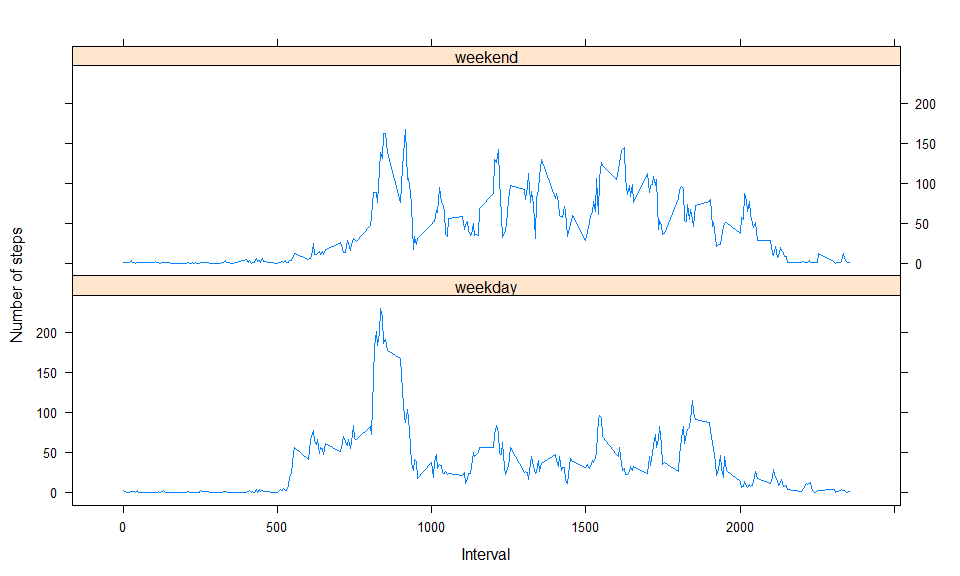
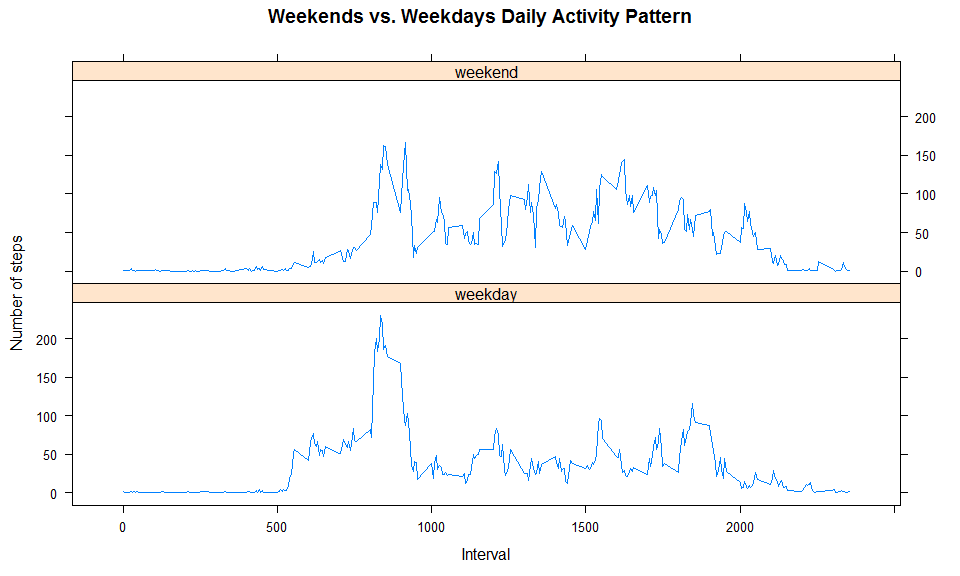
update
update charting

diff --git a/PA1_template.html b/PA1_template.html
@@ -137,23 +137,25 @@ hist(stepsperDay$x, breaks = 20, col = &quot;lightgreen&quot;, border = &quot;gr
 median(stepsperDay$x) -&gt; median_2
 
 stepsperInterval&lt;-aggregate(xAct1$steps, by=list(xAct1$interval), FUN=mean, na.rm=TRUE)</code></pre>
+<p>The daily mean after replacing missing value is `r mean_2’ The daily median after replacing missing value is ‘r median_2’</p>
 <pre class="r"><code>plot(stepsperInterval$Group.1, stepsperInterval$x, type=&quot;l&quot;, xlab=&quot;Interval&quot;, ylab=&quot;Number of Steps&quot;, main = paste(&quot;average # of steps per evey 5 minutes after missing value replaced&quot;))</code></pre>
[1 lines of base64/hex data omitted]
 </div>
 </div>
 <div id="are-there-differences-in-activity-patterns-between-weekdays-and-weekends" class="section level2">
 <h2>Are there differences in activity patterns between weekdays and weekends?</h2>
-<pre class="r"><code>library(lattice)</code></pre>
-<pre><code>## Warning: package 'lattice' was built under R version 3.1.2</code></pre>
-<pre class="r"><code>xAct1$date &lt;- as.Date(xAct1$date, format=&quot;%Y-%m-%d&quot;)
+<pre class="r"><code>library(lattice)
+xAct1$date &lt;- as.Date(xAct1$date, format=&quot;%Y-%m-%d&quot;)
 xAct1$WDay &lt;- weekdays(xAct1$date)
 xAct1$dayType[xAct1$WDay==&quot;Sunday&quot;]&lt;-&quot;weekend&quot;
 xAct1$dayType[xAct1$WDay==&quot;Saturday&quot;]&lt;-&quot;weekend&quot;
 xAct1$dayType[is.na(xAct1$dayType)]&lt;-&quot;weekday&quot;
 xAct1$dayType&lt;-as.factor(xAct1$dayType)
 stepsper5&lt;-aggregate(xAct1$steps, by=list(xAct1$interval, xAct1$dayType), FUN=mean, na.rm=TRUE)
-xyplot(stepsper5$x~stepsper5$Group.1|stepsper5$Group.2, layout=c(1,2), type=&quot;l&quot;, xlab=&quot;Interval&quot;, ylab=&quot;Number of steps&quot;)</code></pre>
[1 lines of base64/hex data omitted]
+
+xyplot(stepsper5$x~stepsper5$Group.1|stepsper5$Group.2, layout=c(1,2), type=&quot;l&quot;, xlab=&quot;Interval&quot;, ylab=&quot;Number of steps&quot;, 
+       main = paste(&quot;Weekends vs. Weekdays Daily Activity Pattern&quot;))</code></pre>
[1 lines of base64/hex data omitted]
 </div>
 
 

diff --git a/PA1_template.md b/PA1_template.md
@@ -132,6 +132,8 @@ median(stepsperDay$x) -> median_2
 
 stepsperInterval<-aggregate(xAct1$steps, by=list(xAct1$interval), FUN=mean, na.rm=TRUE)
 ```
+The daily mean after replacing missing value is `r mean_2'
+The daily median after replacing missing value is 'r median_2'
 
 
 ```r
@@ -144,13 +146,6 @@ plot(stepsperInterval$Group.1, stepsperInterval$x, type="l", xlab="Interval", yl
 
 ```r
 library(lattice)
-```
-
-```
-## Warning: package 'lattice' was built under R version 3.1.2
-```
-
-```r
 xAct1$date <- as.Date(xAct1$date, format="%Y-%m-%d")
 xAct1$WDay <- weekdays(xAct1$date)
 xAct1$dayType[xAct1$WDay=="Sunday"]<-"weekend"
@@ -158,7 +153,10 @@ xAct1$dayType[xAct1$WDay=="Saturday"]<-"weekend"
 xAct1$dayType[is.na(xAct1$dayType)]<-"weekday"
 xAct1$dayType<-as.factor(xAct1$dayType)
 stepsper5<-aggregate(xAct1$steps, by=list(xAct1$interval, xAct1$dayType), FUN=mean, na.rm=TRUE)
-xyplot(stepsper5$x~stepsper5$Group.1|stepsper5$Group.2, layout=c(1,2), type="l", xlab="Interval", ylab="Number of steps")
+
+xyplot(stepsper5$x~stepsper5$Group.1|stepsper5$Group.2, layout=c(1,2), type="l", xlab="Interval", ylab="Number of steps", 
+       main = paste("Weekends vs. Weekdays Daily Activity Pattern"))
 ```
 
 ![](PA1_template_files/figure-html/xyplot-1.png) 
+### The weekends and weekdays activity paterns do show the differences. 
